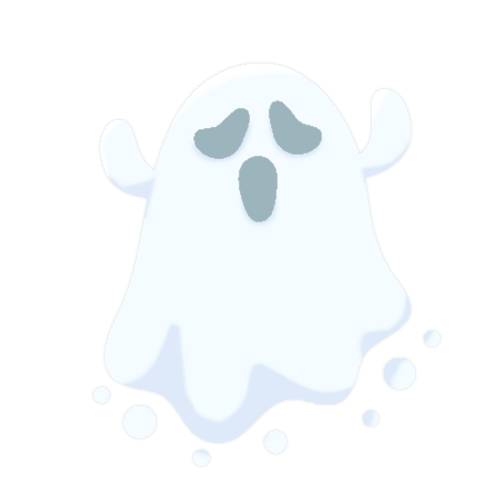
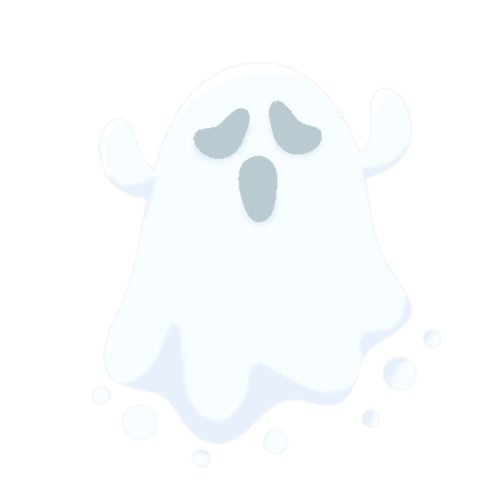
add ghost image in gameplay

Changed region(s): [[0.39, 0.21, 0.57, 0.45], [0.54, 0.18, 0.66, 0.33]]

diff --git a/dist/main.js b/dist/main.js
@@ -36,7 +36,7 @@ eval("__webpack_require__.r(__webpack_exports__);\n/* harmony import */ var _mov
   \**************************************/
 /***/ (function(__unused_webpack_module, __webpack_exports__, __webpack_require__) {
 
[2 lines of base64/hex data omitted]
 
 /***/ }),
 
@@ -66,7 +66,7 @@ eval("__webpack_require__.r(__webpack_exports__);\n// Does similar things to the
   \***************************************/
 /***/ (function(__unused_webpack_module, __webpack_exports__, __webpack_require__) {
 
[2 lines of base64/hex data omitted]
 
 /***/ }),
 

diff --git a/src/scripts/entities/ghost.js b/src/scripts/entities/ghost.js
@@ -12,6 +12,7 @@ class Ghost extends MovingObject {
 
         super(options);
 
+        this.image = document.getElementById("ghost-icon")
         this.isWrappable = false;
         this.damage = 30;
     }
@@ -25,7 +26,9 @@ class Ghost extends MovingObject {
     }
 
     draw(ctx) {
-        MovingObject.prototype.draw.call(this, ctx);
+        // Numbers are to adjust the image correctly
+        ctx.drawImage(this.image, this.pos[0] - 102, this.pos[1] - 98, 200, 200)
+        // MovingObject.prototype.draw.call(this, ctx);
     }
 }
 

diff --git a/src/scripts/entities/bomb.js b/src/scripts/entities/bomb.js
@@ -27,8 +27,8 @@ class Bomb extends MovingObject {
 
     draw(ctx) {
         // Numbers are to adjust the image correctly
-        // MovingObject.prototype.draw.call(this, ctx);
         ctx.drawImage(this.image, this.pos[0] - 45, this.pos[1] - 50, 92, 92)
+        // MovingObject.prototype.draw.call(this, ctx);
 
         // const x = this.pos[0] - 45
         // const y = this.pos[1] - 50
